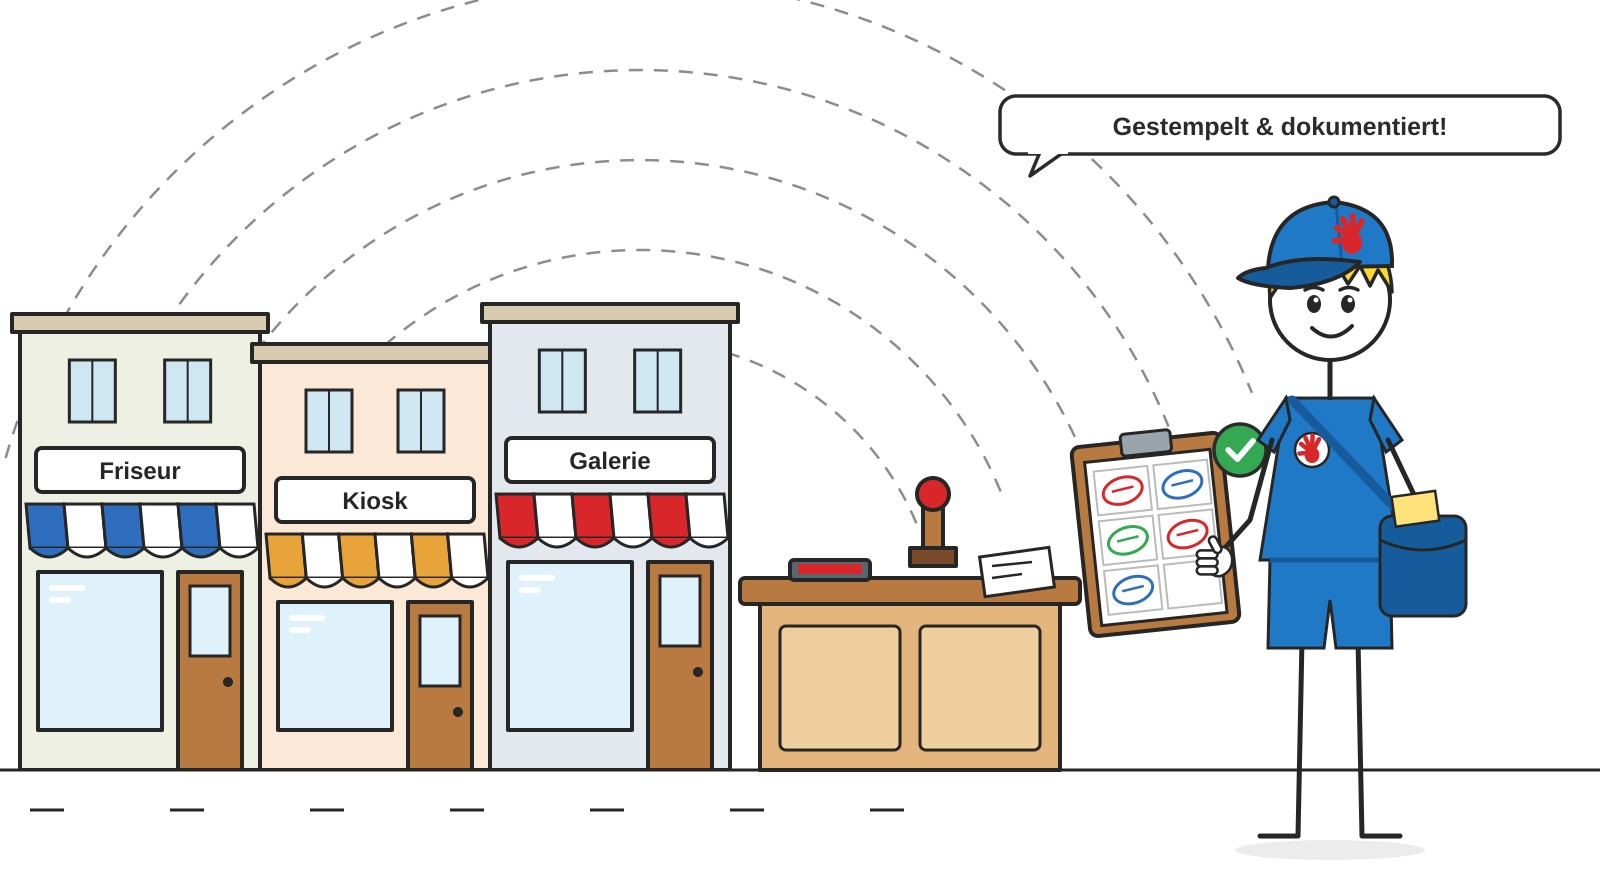
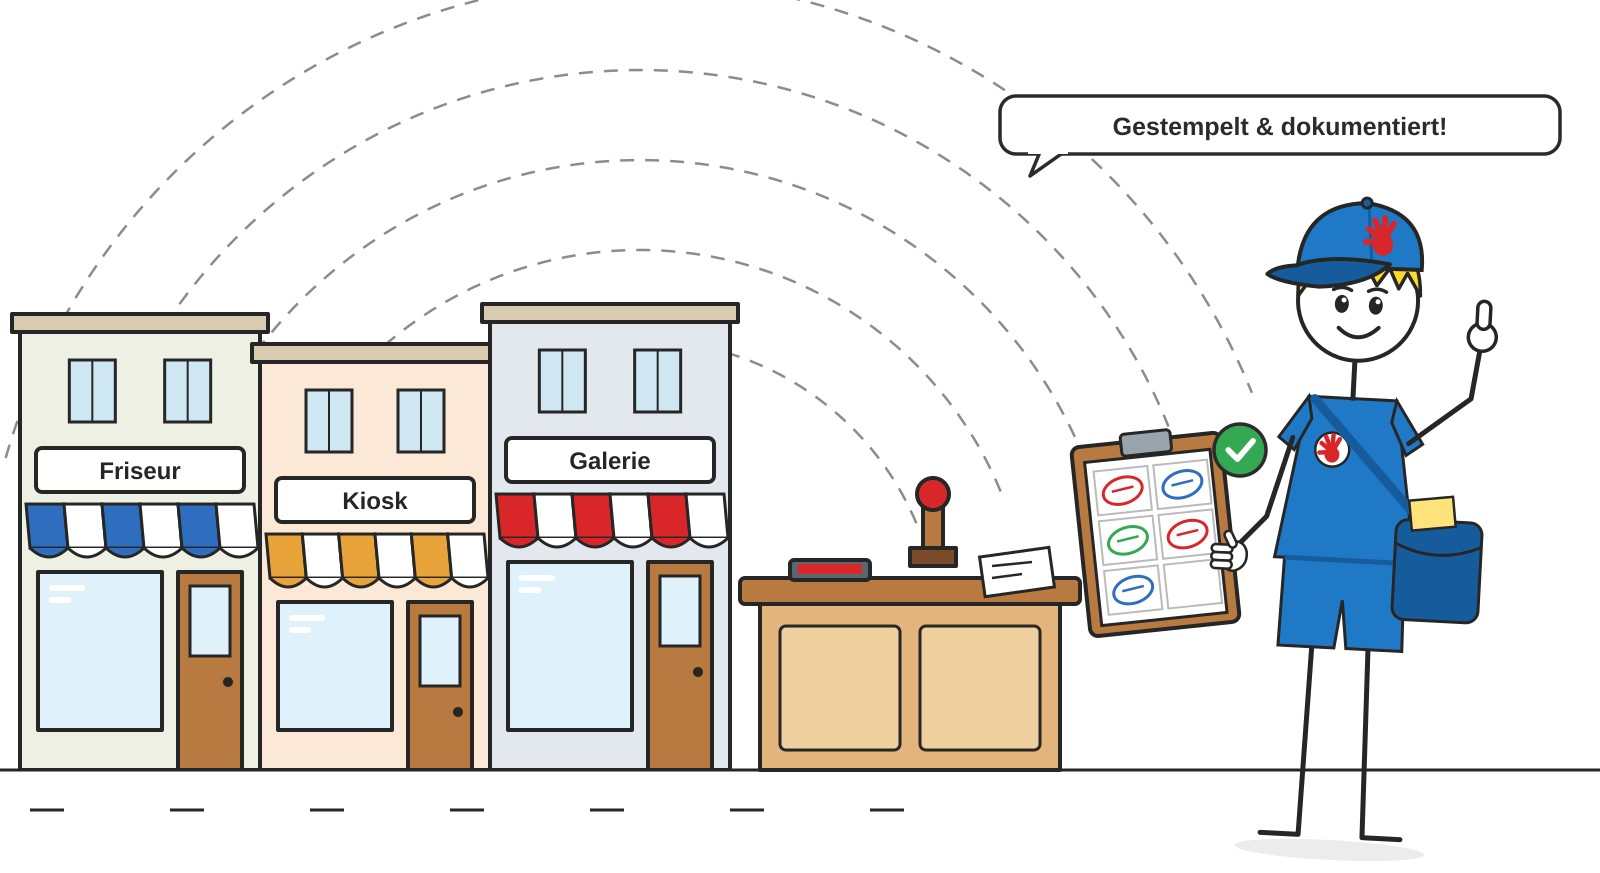
Auslage-Illustrationen: Figur in Bewegung (Schritt, Strecken, Daumen hoch)
Claude-Session: https://claude.ai/code/session_01A5pgc5iH7UVA3sDk3Q2ng7

Changed region(s): [[0.75, 0.2165, 0.9375, 0.9897], [0.9062, 0.3402, 0.9375, 0.4639], [0.7812, 0.9278, 0.8125, 0.9588]]

diff --git a/tools/stadtbild/auslage_seiten.py b/tools/stadtbild/auslage_seiten.py
@@ -74,11 +74,24 @@ def pin(x, y, n=None, s=1.0):
     return g + '</g>'
 
 
-def figur(cx, hand_to, elbow, flyer=True, cap=True):
-    fig = s.strich(cx, BLUE, BLUE_D, hand_to=hand_to, elbow=elbow)
+def figur(cx, hand_to, elbow, cap=True, walk=False, arm2=None, daumen=False, extra="", lean=0):
+    """Strichmännchen mit Pose: walk = Schrittstellung, arm2 = Punkte des zweiten Arms (statt Taschenarm),
+    daumen = Daumen hoch an arm2, extra = Dinge in der Hand (drehen mit), lean = Neigung in Grad um die Füße."""
+    fig = s.strich(cx, BLUE, BLUE_D, hand_to=hand_to, elbow=elbow, walk=walk)
     i = fig.index(f'<path d="M{cx-30},246')
     fig = fig[:i] + fig[fig.index('/>', i) + 2:]
-    g = fig + bc.brauen(cx) + (bc.cap_schraeg(cx) if cap else "")
+    if arm2:
+        old = f'<path d="M{cx+58},440 L{cx+96},520 L{cx+120},560"'
+        j = fig.index(old)
+        d = "M" + " L".join(f"{x},{y}" for x, y in arm2)
+        fig = fig[:j] + f'<path d="{d}"' + fig[j + len(old):]
+        if daumen:
+            hx, hy = arm2[-1]
+            fig += (f'<circle cx="{hx}" cy="{hy}" r="14" fill="#fff" stroke="{L}" stroke-width="3.5"/>'
+                    f'<rect x="{hx-6}" y="{hy-36}" width="13" height="28" rx="6.5" fill="#fff" stroke="{L}" stroke-width="3.5"/>')
+    g = fig + bc.brauen(cx) + (bc.cap_schraeg(cx) if cap else "") + extra
+    if lean:
+        g = f'<g transform="rotate({lean} {cx} 836)">' + g + '</g>'
     return g
 
 
@@ -114,8 +127,9 @@ def strategie():
     g += f.check(1000, 236, 24)
     # Figur mit Flyerstapel
     cx = 1330
-    g += figur(cx, (1228, 560), (1240, 500))
-    g += bc.ihr_flyer(1204, 512, -6) + bc.ihr_flyer(1214, 518, 4) + bc.hand_greift(1232, 560, 0, 0.8)
+    g += figur(cx, (1206, 520), (1236, 470), walk=True, lean=-4,
+               arm2=[(cx + 58, 440), (cx + 104, 500), (cx + 150, 470)],
+               extra=bc.ihr_flyer(1182, 472, -12) + bc.ihr_flyer(1194, 478, -2) + bc.hand_greift(1210, 520, -10, 0.8))
     g += f.bubble(1060, 96, 500, "Viele Lokationen auf engem Raum!", 25)
     return render(g, "Auslage_Strategie.jpg")
 
@@ -157,8 +171,8 @@ def poster():
     g += f.check(x + 300, top + 200, 26)
     # Figur mit Tesafilm-Rolle, Hand am Poster
     cx = 1330
-    g += figur(cx, (1012, 548), (1180, 590))
-    g += f'<circle cx="1004" cy="540" r="22" fill="#eaf6ff" stroke="{L}" stroke-width="4"/><circle cx="1004" cy="540" r="10" fill="#fff" stroke="{L}" stroke-width="3"/>'
+    tape = f'<circle cx="1026" cy="470" r="22" fill="#eaf6ff" stroke="{L}" stroke-width="4"/><circle cx="1026" cy="470" r="10" fill="#fff" stroke="{L}" stroke-width="3"/>'
+    g += figur(cx, (1034, 476), (1170, 470), walk=True, lean=-7, extra=tape)
     g += f.bubble(1000, 96, 560, "Mit Erlaubnis – direkt angebracht!", 25)
     return render(g, "Auslage_Poster.jpg")
 
@@ -198,8 +212,9 @@ def nachweis():
     g += '</g>'
     g += f.check(1240, 450, 26)
     cx = 1330
-    g += figur(cx, (1214, 560), (1250, 520))
-    g += bc.hand_greift(1216, 560, 0, 0.8)
+    g += figur(cx, (1214, 560), (1250, 520), lean=3,
+               arm2=[(cx + 58, 440), (cx + 118, 392), (cx + 126, 330)], daumen=True,
+               extra=bc.hand_greift(1216, 560, 0, 0.8))
     g += f.bubble(1000, 96, 560, "Gestempelt &amp; dokumentiert!", 25)
     return render(g, "Auslage_Nachweis.jpg")
 
